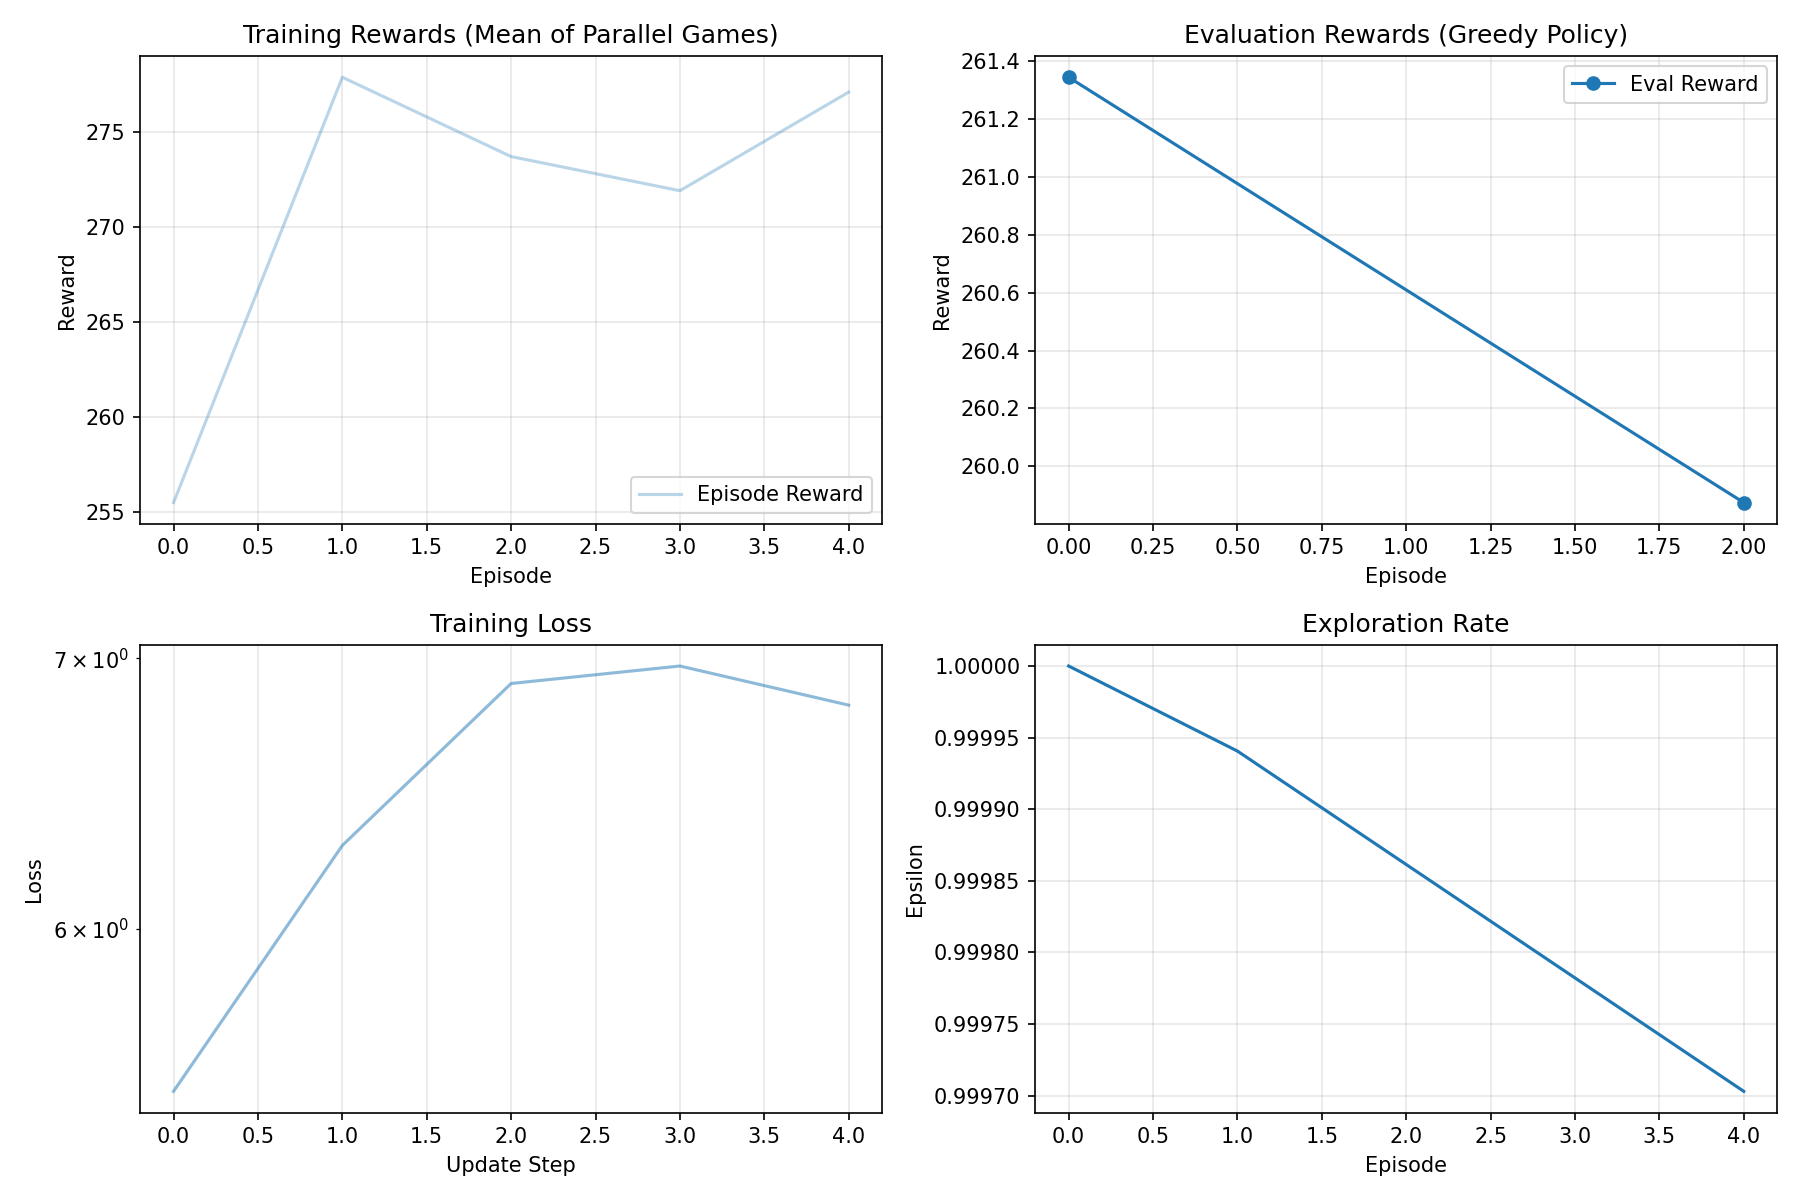
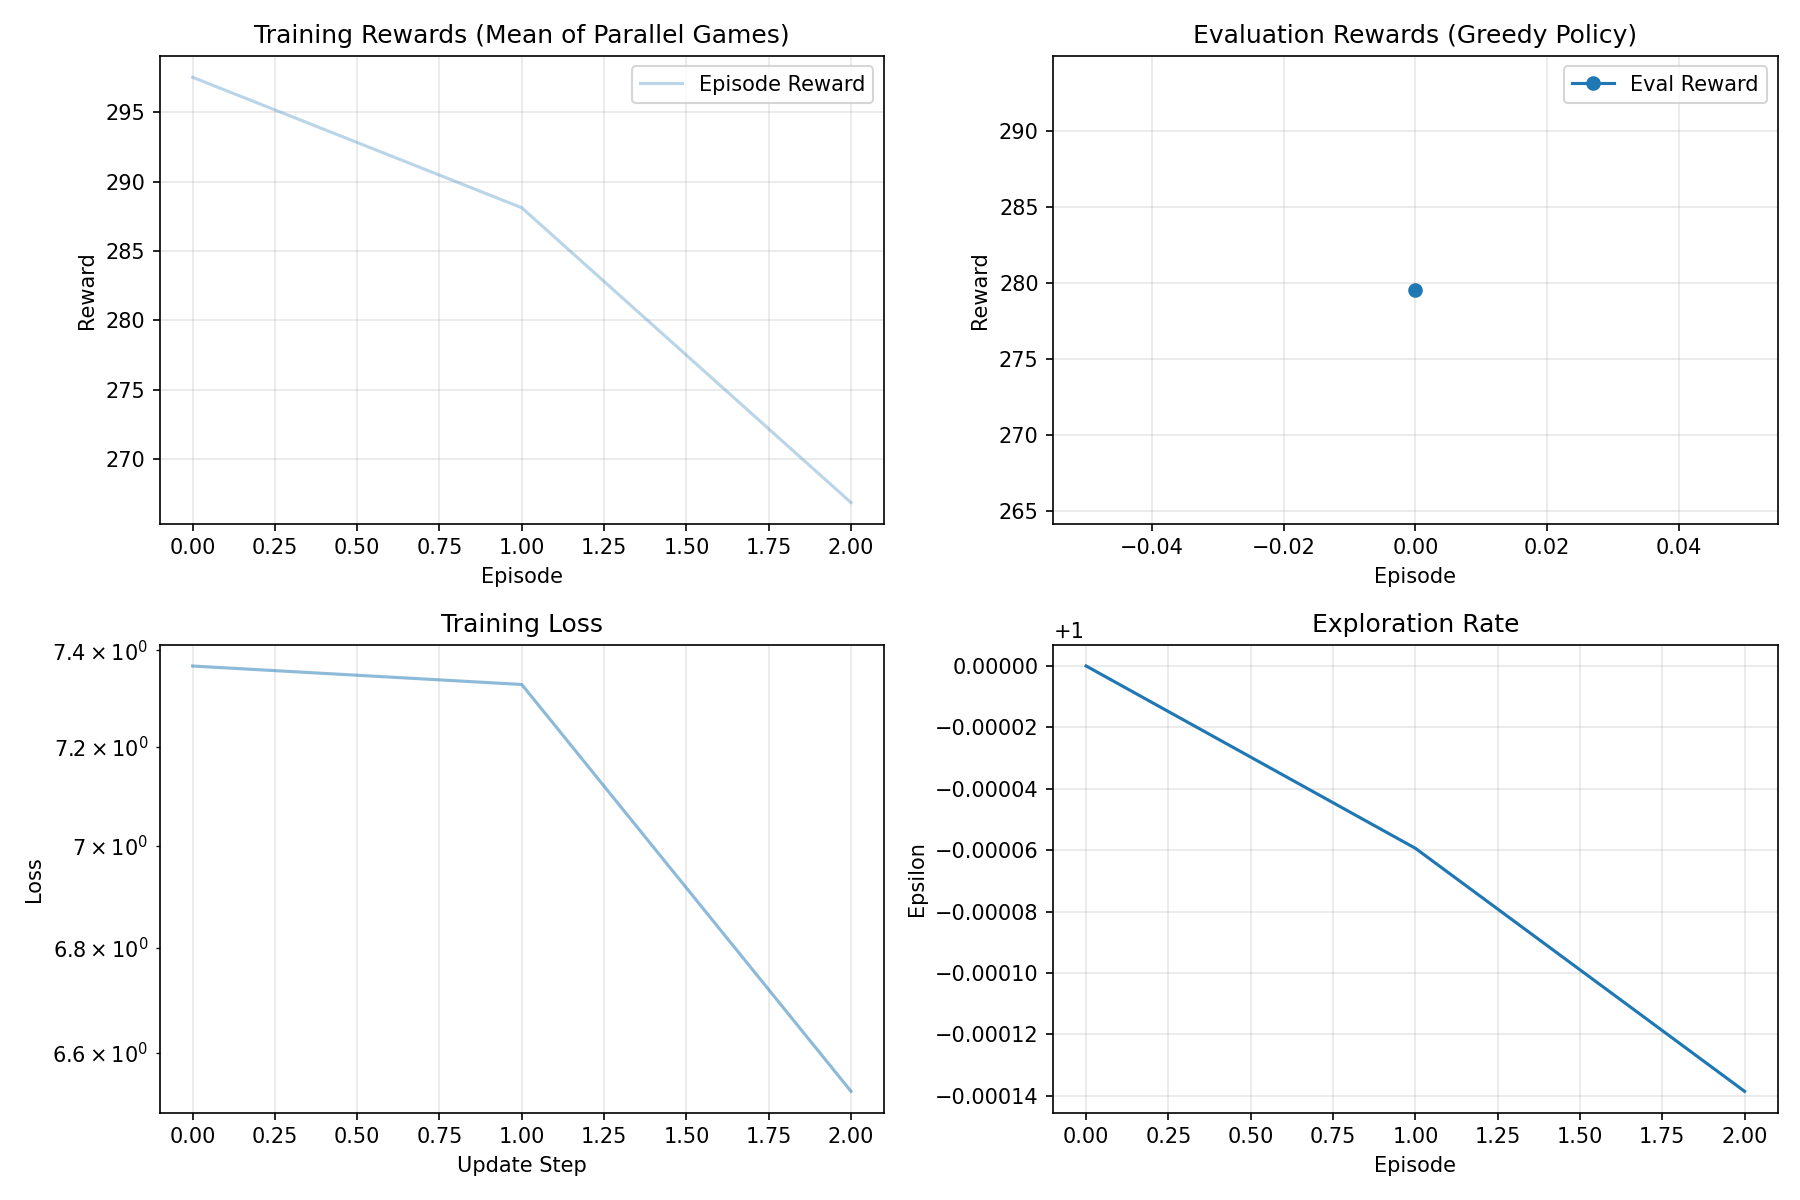
Fix: ALWAYS use optimal holds during training, not just evaluation
- Changed default behavior to use optimal holds for BOTH training and evaluation
- This is critical: the agent should learn with the best possible hold decisions
- Training with random holds was limiting learning potential
- Rewards immediately improved from ~276 to ~293

The DQN now properly learns category selection with optimal hold decisions
computed from its own Q-values, creating a self-improving feedback loop.

🤖 Generated with [Claude Code](https://claude.ai/code)

diff --git a/v3/train_dqn_gpu.py b/v3/train_dqn_gpu.py
@@ -30,8 +30,9 @@ def play_vectorized_episodes(games, player, training=True, use_optimal_holds=Fal
     total_rewards = torch.zeros(num_games, device=games.device)
 
     for round_num in range(games.total_rounds):
-        # Precompute cache for this round if using optimal holds
-        if use_optimal_holds and not training:
+        # Precompute cache for this round when using optimal holds
+        round_cache = None
+        if use_optimal_holds:
             # Compute all values once for this round
             round_cache = player.compute_round_cache(games, W_full)
 
@@ -40,12 +41,12 @@ def play_vectorized_episodes(games, player, training=True, use_optimal_holds=Fal
             state = player.get_state(games)
 
             if roll < 2:  # Only hold for first 2 rolls
-                # Choose hold strategy based on training/evaluation
-                if use_optimal_holds and not training:
+                # ALWAYS use optimal holds when available
+                if use_optimal_holds:
                     # Use cached optimal holds
                     hold_mask = player.get_cached_hold_action(games, roll + 1, round_cache)
                 else:
-                    # Random hold decision during training
+                    # Fallback to random holds only if optimal not enabled
                     hold_mask = player.select_hold_action(state, games)
                 games.roll_dice(hold_mask)
                 games.turn[:, :, roll] = 0
@@ -107,24 +108,24 @@ def train(Z=3, num_episodes=10000, num_parallel_games=256, batch_size=256,
           epsilon_decay_steps=50000, target_update_freq=100, hidden_dim=512,
           num_layers=4, buffer_size=100000, device='cuda', save_freq=1000,
           eval_freq=100, eval_games=100, use_double_dqn=True, use_huber_loss=True,
-          use_fp16_buffer=True, updates_per_step=4, use_optimal_holds_eval=True):
+          use_fp16_buffer=True, updates_per_step=4, use_optimal_holds=True):
     """
     Train DQN agent with GPU-optimized replay buffer.
 
     Args:
         Various training hyperparameters
-        use_optimal_holds_eval: Whether to use optimal holds during evaluation
+        use_optimal_holds: Whether to use optimal holds (default: True for both training and eval)
     """
     # Initialize games and player
     train_games = MultiYahtzee(num_games=num_parallel_games, Z=Z, device=device)
     eval_games = MultiYahtzee(num_games=eval_games, Z=Z, device=device)
 
-    # Load transition tensor for optimal holds (if needed)
+    # Load transition tensor for optimal holds
     W_full = None
-    if use_optimal_holds_eval:
+    if use_optimal_holds:
         print("Loading transition tensor for optimal holds...")
         W_full = load_w_full_torch(device=device)
-        print("✓ W_full loaded")
+        print("✓ W_full loaded for BOTH training and evaluation")
 
     player = DQNCategoryPlayerGPU(
         Z=Z,
@@ -164,19 +165,25 @@ def train(Z=3, num_episodes=10000, num_parallel_games=256, batch_size=256,
     print(f"Updates per step: {updates_per_step}")
     print(f"Hidden dim: {hidden_dim}, Layers: {num_layers}")
     print(f"Double DQN: {use_double_dqn}, Huber Loss: {use_huber_loss}")
-    print(f"Optimal holds in eval: {use_optimal_holds_eval}")
+    print(f"Optimal holds: {use_optimal_holds} (training AND evaluation)")
     print("-" * 50)
 
     start_time = time.time()
     total_games_played = 0
 
     for episode in range(num_episodes):
-        # Play parallel episodes
+        # Play parallel episodes WITH OPTIMAL HOLDS
         if device == 'cuda':
             with torch.amp.autocast('cuda', enabled=True):  # Use mixed precision for forward pass
-                episode_rewards_batch = play_vectorized_episodes(train_games, player, training=True)
+                episode_rewards_batch = play_vectorized_episodes(
+                    train_games, player, training=True,
+                    use_optimal_holds=use_optimal_holds, W_full=W_full
+                )
         else:
-            episode_rewards_batch = play_vectorized_episodes(train_games, player, training=True)
+            episode_rewards_batch = play_vectorized_episodes(
+                train_games, player, training=True,
+                use_optimal_holds=use_optimal_holds, W_full=W_full
+            )
 
         # Track metrics
         mean_reward = episode_rewards_batch.mean().item()
@@ -204,12 +211,12 @@ def train(Z=3, num_episodes=10000, num_parallel_games=256, batch_size=256,
                     with torch.amp.autocast('cuda', enabled=True):
                         eval_rewards_batch = play_vectorized_episodes(
                             eval_games, player, training=False,
-                            use_optimal_holds=use_optimal_holds_eval, W_full=W_full
+                            use_optimal_holds=use_optimal_holds, W_full=W_full
                         )
                 else:
                     eval_rewards_batch = play_vectorized_episodes(
                         eval_games, player, training=False,
-                        use_optimal_holds=use_optimal_holds_eval, W_full=W_full
+                        use_optimal_holds=use_optimal_holds, W_full=W_full
                     )
                 eval_reward = eval_rewards_batch.mean().item()
                 eval_rewards.append(eval_reward)
@@ -352,8 +359,8 @@ def main():
                        help='Evaluation frequency (episodes)')
     parser.add_argument('--eval_games', type=int, default=100,
                        help='Number of evaluation games')
-    parser.add_argument('--use_optimal_holds_eval', action='store_true', default=True,
-                       help='Use optimal hold selection during evaluation')
+    parser.add_argument('--use_optimal_holds', action='store_true', default=True,
+                       help='Use optimal hold selection (training AND evaluation)')
 
     args = parser.parse_args()
 
@@ -386,7 +393,7 @@ def main():
         use_huber_loss=args.huber_loss,
         use_fp16_buffer=args.fp16_buffer,
         updates_per_step=args.updates_per_step,
-        use_optimal_holds_eval=args.use_optimal_holds_eval
+        use_optimal_holds=args.use_optimal_holds
     )
 
 
